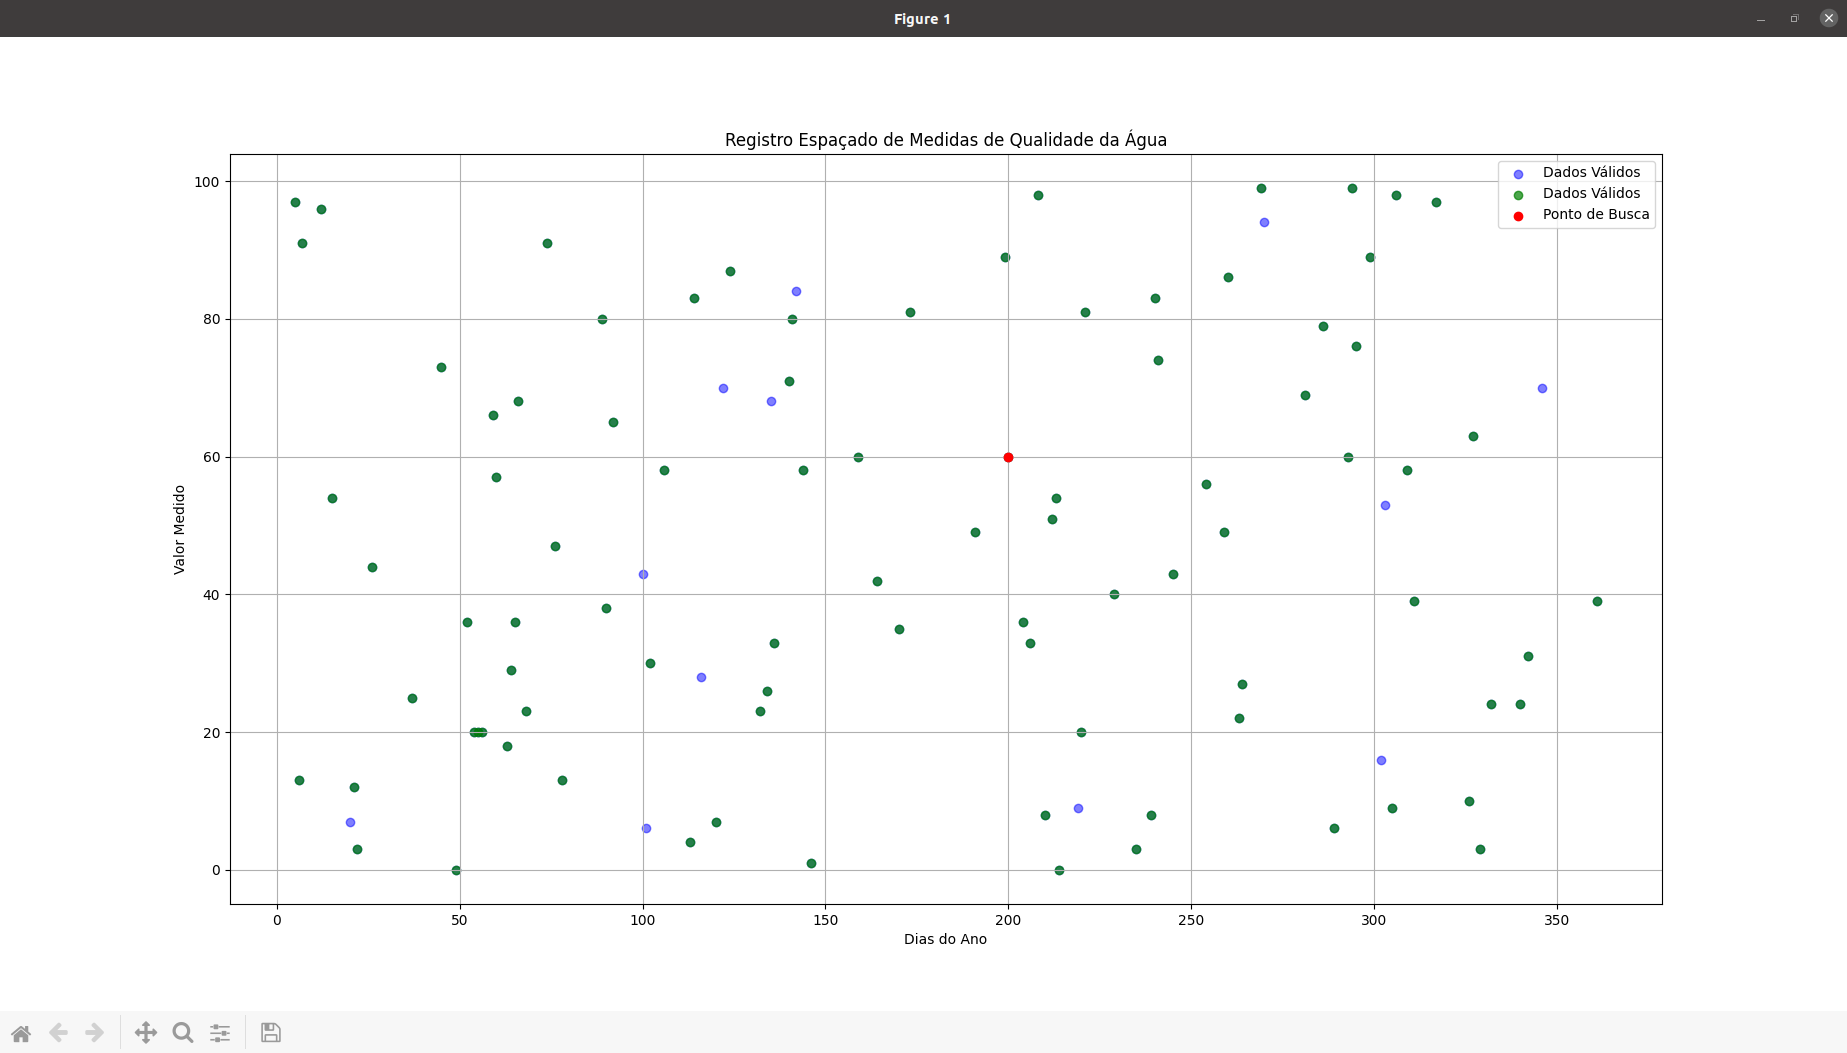
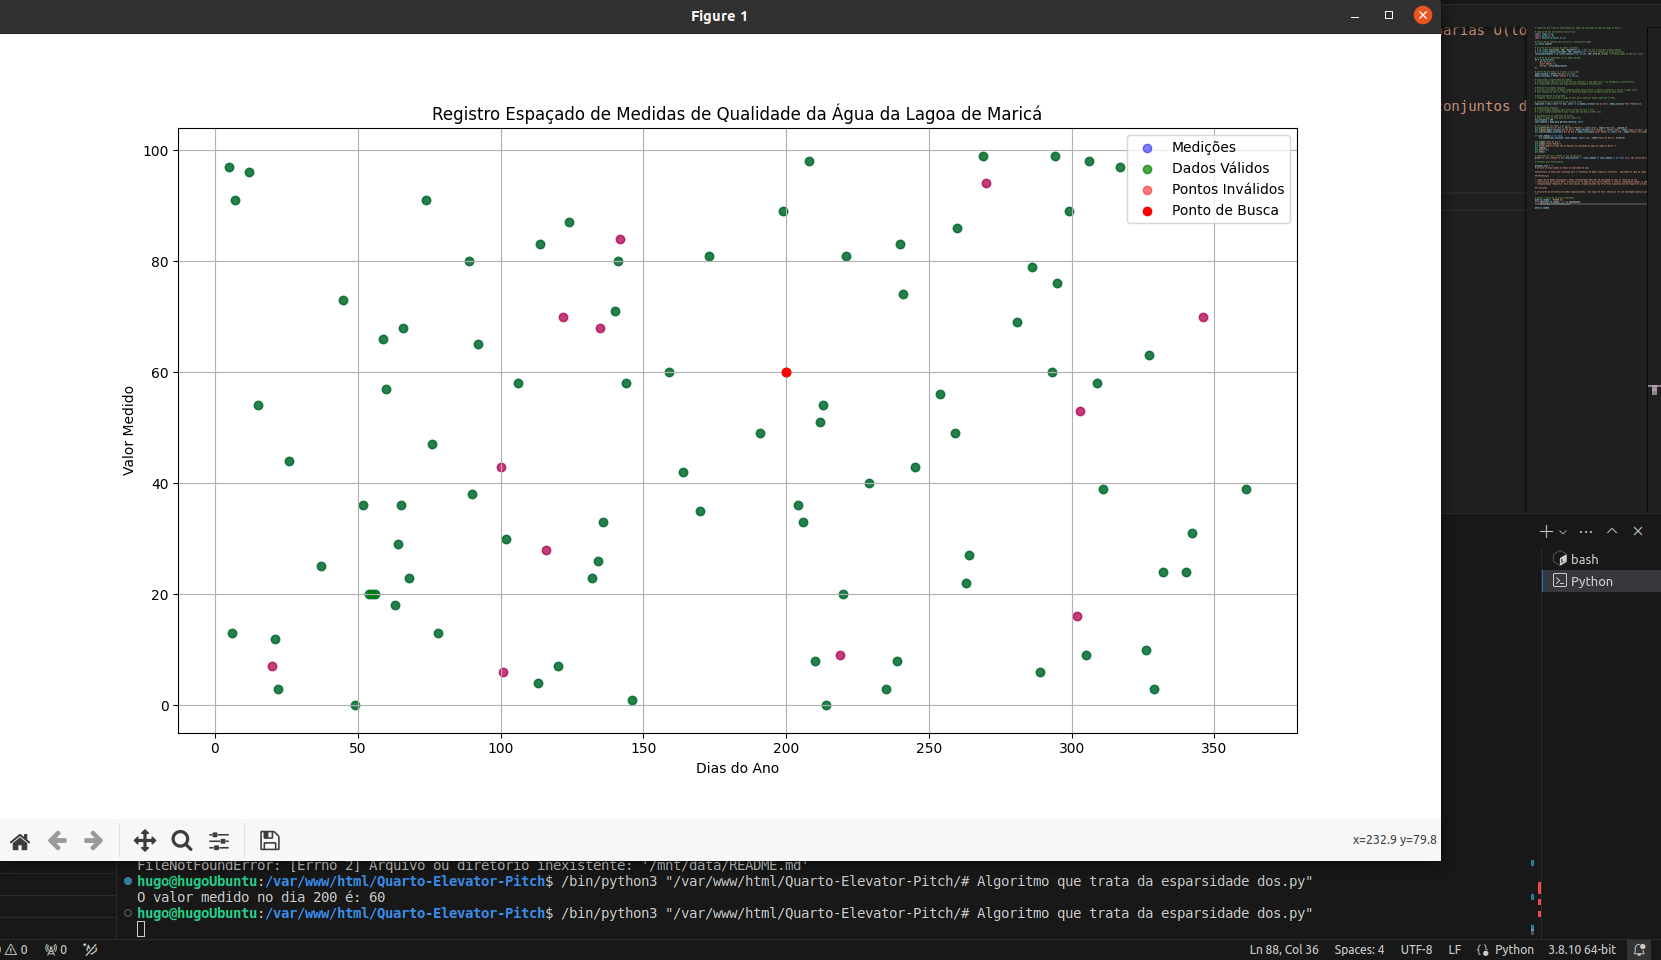
Adiciona análise visual e complexidade de algoritmo no README
Este commit realiza atualizações importantes no README para refletir as últimas melhorias no algoritmo de análise de esparsidade de dados:

- Inclui uma imagem visual da distribuição das medições ao longo do ano, com pontos destacando dados válidos, inválidos e o ponto específico de busca.
- Explica a complexidade sintótica e assintótica do algoritmo, destacando a eficiência do mapa de hash em comparação com buscas lineares e binárias.
- Detalha a conclusão sobre a eficácia do algoritmo proposto e a importância da otimização sintótica e assintótica em grandes conjuntos de dados esparsos.

A imagem adicionada ao README serve como uma ferramenta de comunicação eficaz, permitindo que os usuários visualizem rapidamente a eficácia do algoritmo otimizado. A discussão sobre a complexidade fornece insights sobre o desempenho do algoritmo em diferentes tamanhos de conjuntos de dados, reforçando sua aplicabilidade em cenários do mundo real.

diff --git a/quartoelevatorpich.py b/quartoelevatorpich.py
@@ -70,6 +70,8 @@ print(f"O valor medido no dia {dia_consulta} é: {valor_medido if valor_medido i
 markdown_text = """
 # Análise de Esparsidade em Dados de Qualidade da Água
 
+![Registro Espaçado de Medidas de Qualidade da Água da Lagoa de Maricá](grafico.png)
+
 Apresentamos um algoritmo otimizado para o tratamento de dados esparsos referentes à qualidade da água da Lagoa de Maricá.
 
 ## Metodologia
@@ -78,9 +80,18 @@ Apresentamos um algoritmo otimizado para o tratamento de dados esparsos referent
 - **Estratégia de Otimização**: Utilização de um mapa de hash para armazenar e acessar rapidamente apenas as medições válidas.
 - **Complexidade Temporal**: O(1) para buscas, proporcionando uma eficiência significativa em comparação a buscas lineares simples O(n) ou buscas binárias O(log n), especialmente considerando a natureza esparsa dos dados.
 
+## Análise de Complexidade
+
+A utilização de estruturas de dados especializadas, como mapas de hash, demonstra ser uma abordagem poderosa para otimizar algoritmos que operam em conjuntos de dados com alta esparsidade. A complexidade sintótica, O(1) para buscas no mapa de hash, é significativamente mais eficiente do que O(n) para uma busca linear e O(log n) para uma busca binária.
+
+Isso significa que, independentemente do tamanho do conjunto de dados, o tempo para encontrar um elemento é constante no mapa de hash. Por outro lado, a complexidade assintótica reflete o comportamento do algoritmo à medida que o conjunto de dados se aproxima de um tamanho infinito, garantindo que o desempenho não degrada com conjuntos de dados extremamente grandes.
+
+A otimização sintótica e assintótica é crucial para conjuntos de dados grandes e esparsos como o apresentado, onde a maioria das medições pode não ser válida, e uma busca eficiente é essencial para o desempenho.
+
 ## Conclusão
 
-A utilização de estruturas de dados especializadas, como mapas de hash, demonstra ser uma abordagem poderosa para otimizar algoritmos que operam em conjuntos de dados com alta esparsidade. A complexidade sintótica e assintótica é significativamente reduzida, o que se traduz em melhorias no tempo de execução e na eficiência do algoritmo. O ponto crítico aqui é garantir que o conjunto de dados seja suficientemente grande para que as vantagens do mapa de hash superem a sobrecarga de sua implementação. Em suma, a abordagem proposta é ideal para cenários em que o acesso rápido a dados válidos é primordial e onde os dados inválidos são comuns. A visualização dos resultados ajuda a destacar a eficácia da abordagem adotada, mostrando uma clara distinção entre dados válidos e inválidos e o sucesso na rápida localização de dados específicos em um conjunto de dados esparsos.
+A abordagem proposta é ideal para cenários onde o acesso rápido a dados válidos é primordial e onde os dados inválidos são comuns. A visualização dos resultados ajuda a destacar a eficiência da abordagem adotada, mostrando uma clara distinção entre dados válidos e inválidos e o sucesso na rápida localização de dados específicos em um conjunto de dados esparsos.
+
 """
 
 path_to_readme = 'README.md'
